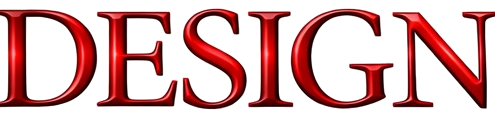
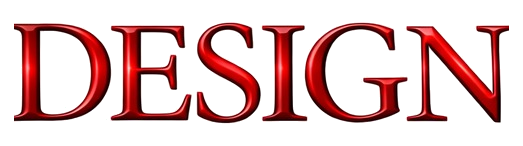
v6 navbar: pad WINTERIOR/DESIGN PNGs with transparent margin + match container aspect to prevent W/R clipping

diff --git a/src/components/Navigation.tsx b/src/components/Navigation.tsx
@@ -124,35 +124,27 @@ export default function Navigation() {
             <span className="relative flex flex-col items-center justify-center gap-1 group-hover:scale-[1.02] transition-transform duration-300">
               <span
                 className="relative block"
-                style={{
-                  height: "30px",
-                  aspectRatio: "788 / 124",
-                  width: "220px",
-                }}
+                style={{ width: "200px", height: "38px" }}
               >
                 <Image
                   src="/winterior-wordmark.png"
                   alt="WINTERIOR"
                   fill
                   priority
-                  sizes="220px"
+                  sizes="200px"
                   className="object-contain"
                 />
               </span>
               <span
                 className="relative block"
-                style={{
-                  height: "22px",
-                  aspectRatio: "495 / 118",
-                  width: "92px",
-                }}
+                style={{ width: "88px", height: "25px" }}
               >
                 <Image
                   src="/winterior-design.png"
                   alt="DESIGN"
                   fill
                   priority
-                  sizes="92px"
+                  sizes="88px"
                   className="object-contain"
                 />
               </span>
